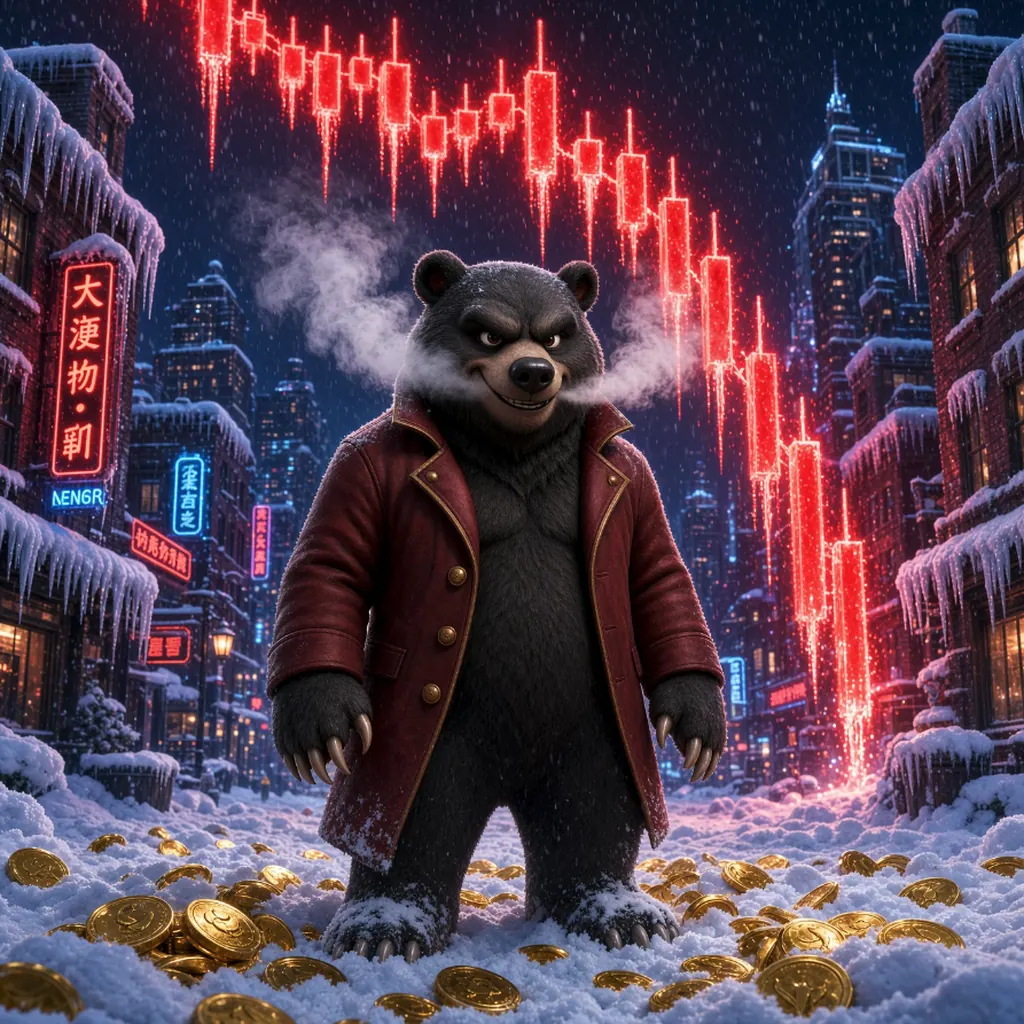
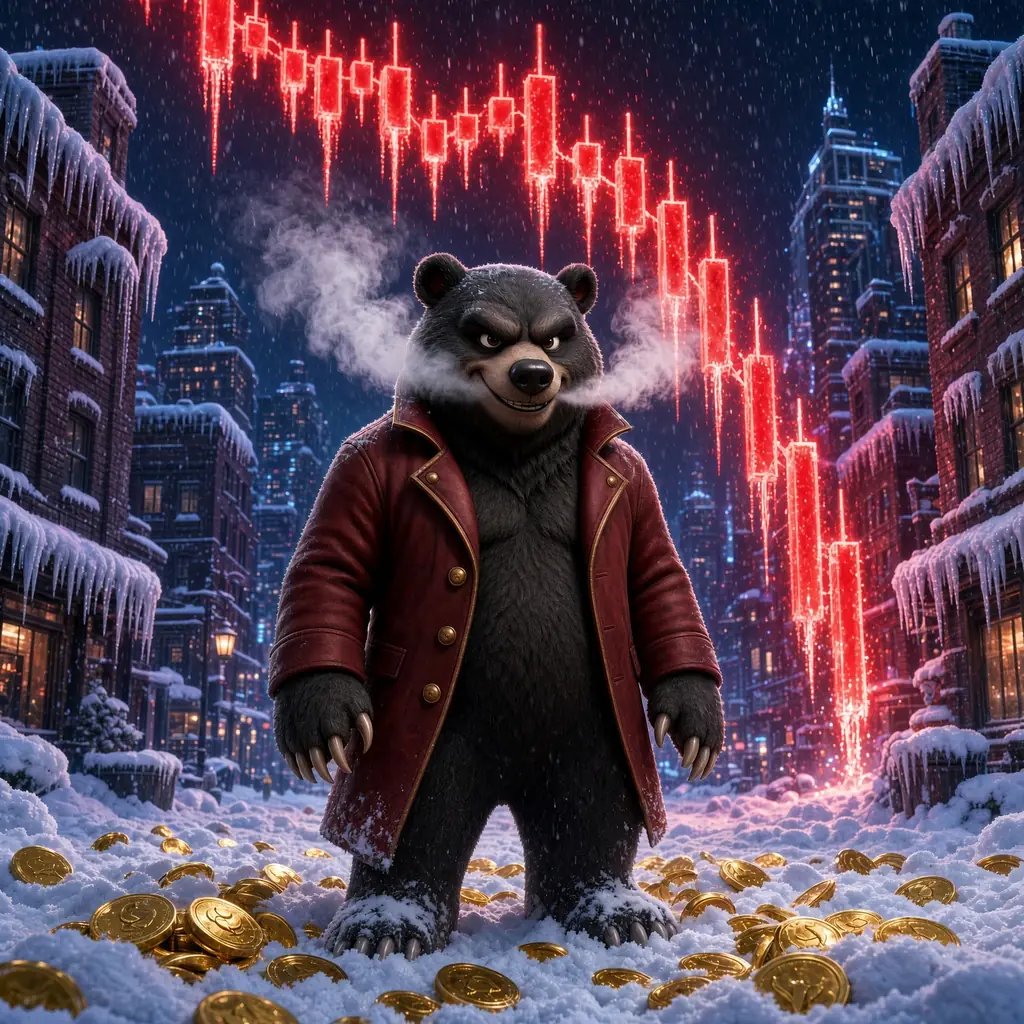
Bear Market: cleaner full-resolution version without signs
Claude-Session: https://claude.ai/code/session_01Aja9Pp2auUHg1ME5BkQZSg

diff --git a/sw.js b/sw.js
@@ -1,6 +1,6 @@
 // Offline support: keeps a copy of the game on the device after the first online launch.
 // Pages load network-first (players get updates when online), everything falls back to the cache offline.
-const CACHE = 'sv-blocks-v41';
+const CACHE = 'sv-blocks-v42';
 const CORE = [
   './',
   './index.html',
